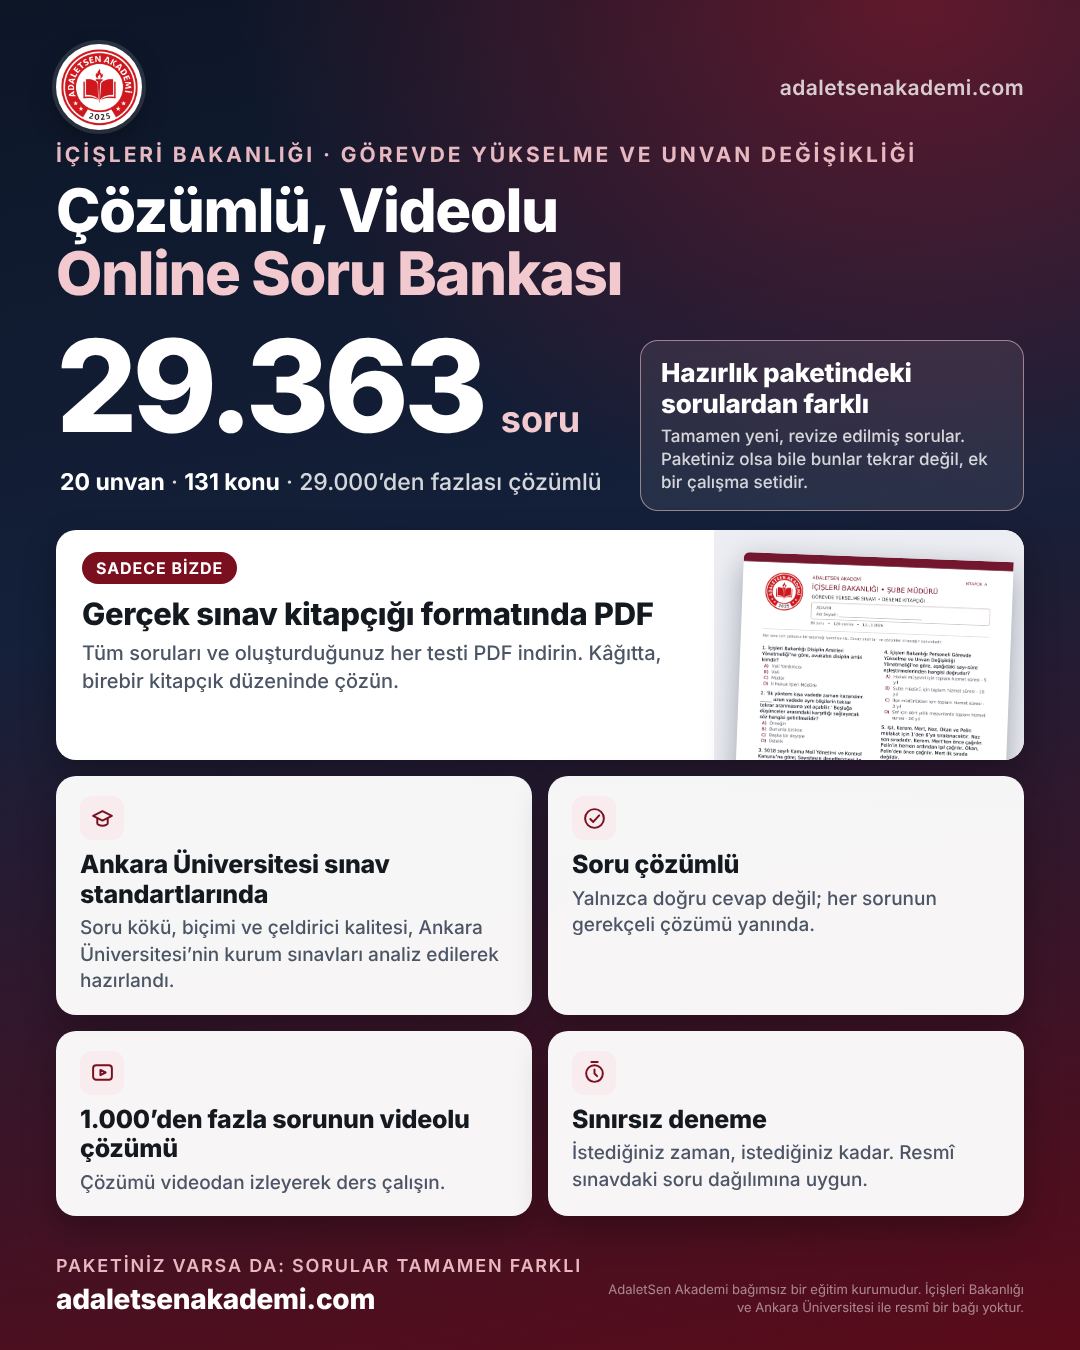
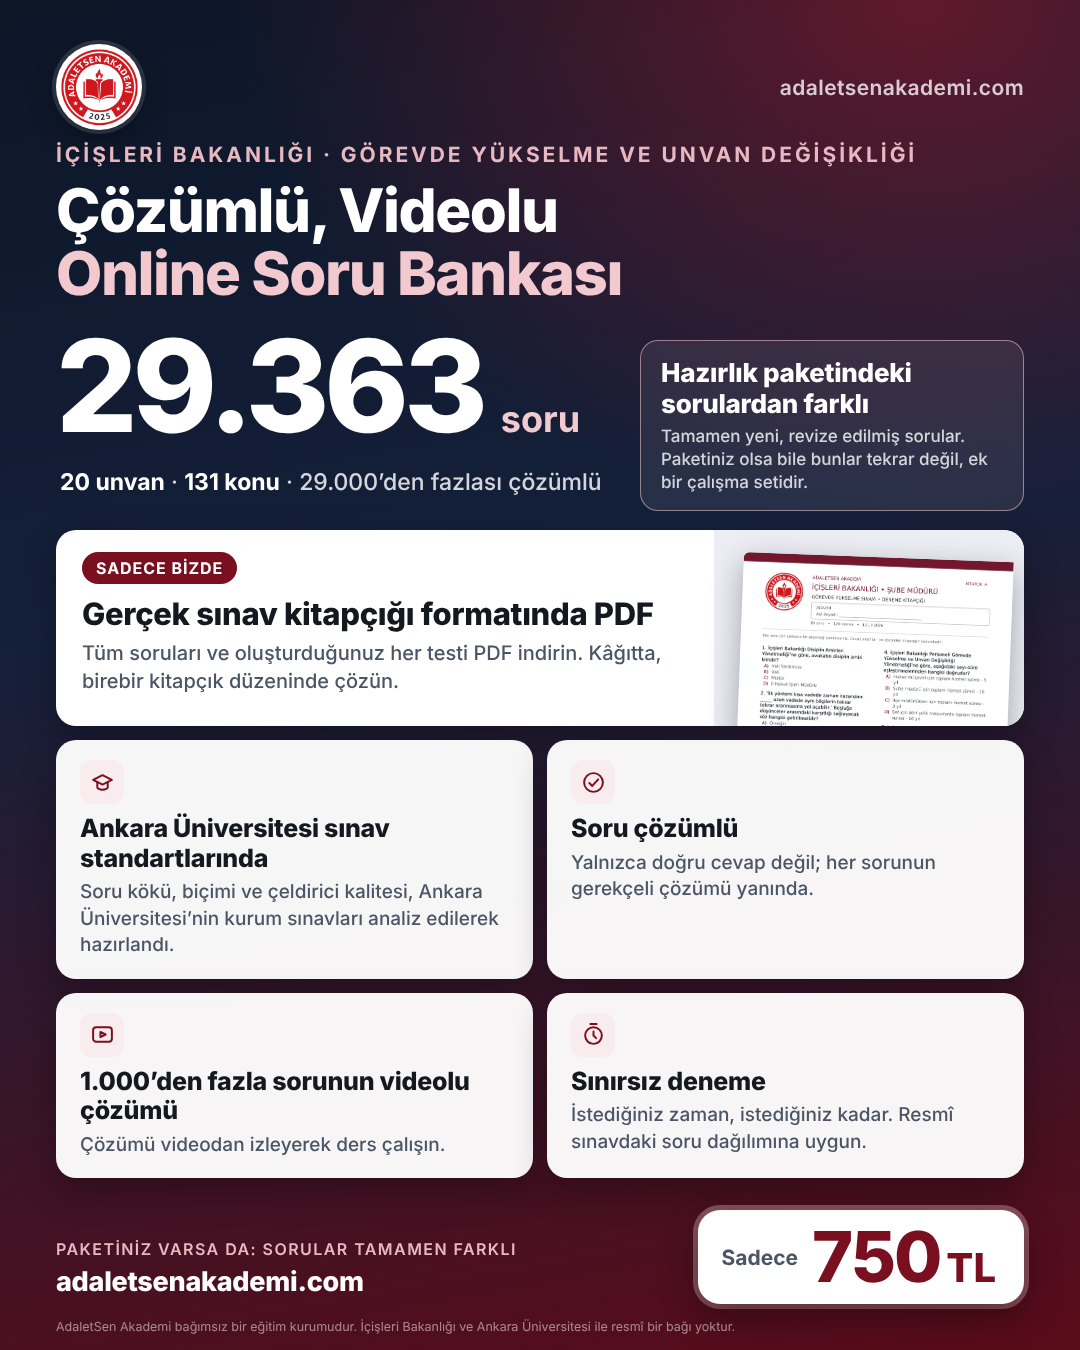
Kampanya görseli: 750 TL fiyat rozeti
Claude-Session: https://claude.ai/code/session_01Dii8fjHLuvXEyJZs8Lu8yp

Changed region(s): [[0.0306, 0.5289, 0.9778, 0.9956], [0.5806, 0.9333, 0.6111, 0.9956]]

diff --git a/kampanya/gorsel.html b/kampanya/gorsel.html
@@ -21,23 +21,27 @@ h1 span{color:#f2c9cf}
 .newb span{display:block;margin-top:6px;font-size:17px;line-height:1.35;color:rgba(255,255,255,.8);font-weight:500}
 .sub{position:absolute;left:60px;top:468px;font-size:23px;color:rgba(255,255,255,.82);font-weight:500}
 .sub b{color:#fff}
-.grid{position:absolute;left:56px;right:56px;top:530px;display:grid;grid-template-columns:1fr 1fr;gap:16px}
+.grid{position:absolute;left:56px;right:56px;top:530px;display:grid;grid-template-columns:1fr 1fr;gap:14px}
 .card{background:rgba(255,255,255,.96);color:#14181f;border-radius:20px;padding:20px 24px;box-shadow:0 14px 34px rgba(0,0,0,.28)}
 .card .ic{width:44px;height:44px;border-radius:12px;background:#f9ecee;color:#7a0f1f;display:grid;place-items:center;margin-bottom:10px}
 .card svg{width:25px;height:25px}
 .card h3{font-size:25px;line-height:1.18;font-weight:800;letter-spacing:-.01em}
 .card p{margin-top:6px;font-size:19px;line-height:1.4;color:#4b5565;font-weight:500}
 .wide{grid-column:1/3;display:flex;gap:26px;align-items:stretch;padding:0;overflow:hidden;background:#fff}
-.wide{height:230px}.wide .tx{padding:22px 0 20px 26px;flex:1}
+.wide{height:196px}.wide .tx{padding:22px 0 20px 26px;flex:1}
 .wide .tx .tag{display:inline-block;margin-bottom:12px;padding:6px 14px;border-radius:99px;background:#7a0f1f;color:#fff;font-size:16px;font-weight:700;letter-spacing:.06em;text-transform:uppercase}
 .wide h3{font-size:31px}
 .wide p{font-size:20px}
 .wide .pg{width:310px;flex:none;position:relative;background:#eceef3}
 .wide .pg img{position:absolute;left:30px;top:22px;width:270px;border-radius:6px 0 0 0;box-shadow:0 10px 30px rgba(16,24,40,.35);transform:rotate(2.2deg);transform-origin:top left}
-.foot{position:absolute;left:56px;right:56px;bottom:34px;display:flex;justify-content:space-between;align-items:flex-end}
-.foot .cta{font-size:28px;font-weight:800;letter-spacing:-.01em}
-.foot .cta small{display:block;margin-bottom:6px;font-size:18px;font-weight:600;letter-spacing:.1em;text-transform:uppercase;color:#e7b8bf}
-.foot .note{max-width:430px;text-align:right;font-size:13px;line-height:1.4;color:rgba(255,255,255,.5)}
+.foot{position:absolute;left:56px;right:56px;bottom:46px;display:flex;justify-content:space-between;align-items:flex-end}
+.foot .cta{font-size:27px;font-weight:800;letter-spacing:-.01em;padding-bottom:6px}
+.foot .cta small{display:block;margin-bottom:6px;font-size:16px;font-weight:600;letter-spacing:.09em;text-transform:uppercase;color:#e7b8bf}
+.price{display:flex;align-items:center;gap:14px;padding:12px 28px 12px 24px;border-radius:22px;background:#fff;color:#7a0f1f;box-shadow:0 14px 34px rgba(0,0,0,.35),0 0 0 5px rgba(242,201,207,.35)}
+.price small{font-size:21px;font-weight:700;color:#4b5565;line-height:1}
+.price b{font-size:70px;line-height:1;font-weight:800;letter-spacing:-.03em}
+.price b i{font-style:normal;font-size:40px;margin-left:6px;letter-spacing:0}
+.note{position:absolute;left:56px;right:56px;bottom:16px;font-size:12.5px;color:rgba(255,255,255,.5)}
 </style></head><body>
 <div class="art">
   <div class="top"><span class="logo" role="img" aria-label="AdaletSen Akademi"></span><span class="site">adaletsenakademi.com</span></div>
@@ -68,7 +72,8 @@ h1 span{color:#f2c9cf}
   </div>
   <div class="foot">
     <div class="cta"><small>Paketiniz varsa da: sorular tamamen farklı</small>adaletsenakademi.com</div>
-    <div class="note">AdaletSen Akademi bağımsız bir eğitim kurumudur. İçişleri Bakanlığı ve Ankara Üniversitesi ile resmî bir bağı yoktur.</div>
+    <div class="price"><small>Sadece</small><b>750<i>TL</i></b></div>
   </div>
+  <div class="note">AdaletSen Akademi bağımsız bir eğitim kurumudur. İçişleri Bakanlığı ve Ankara Üniversitesi ile resmî bir bağı yoktur.</div>
 </div>
 </body></html>
